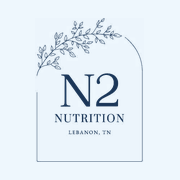
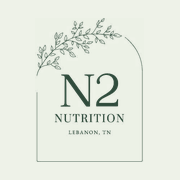
Retheme to earthy sage green palette

diff --git a/site/css/style.css b/site/css/style.css
@@ -1,12 +1,12 @@
 /* N2 Nutrition — Lebanon, TN */
 :root {
-  --navy: #1a3556;
-  --ink: #12243b;
-  --sky: #eef7fd;
-  --sky-2: #dcedf8;
-  --teal: #7db5b2;
-  --coral: #f0654f;
-  --cream: #fffaf3;
+  --navy: #2f4a3b;
+  --ink: #1d2b23;
+  --sky: #eef2e8;
+  --sky-2: #dbe4d0;
+  --teal: #8aa17f;
+  --coral: #c0673f;
+  --cream: #f8f5ec;
   --white: #fff;
   --serif: "Playfair Display", Georgia, serif;
   --sans: "Jost", system-ui, -apple-system, "Segoe UI", sans-serif;
@@ -38,7 +38,7 @@ button { font: inherit; color: inherit; cursor: pointer; }
 .eyebrow { font-size: .78rem; font-weight: 600; letter-spacing: .2em; text-transform: uppercase; color: var(--coral); margin-bottom: 18px; }
 .h2 { font-family: var(--serif); font-weight: 600; font-size: clamp(2.4rem, 5.6vw, 4.4rem); line-height: 1.05; letter-spacing: -.015em; color: var(--navy); }
 .h2 em, .hero__title em { font-style: italic; font-weight: 500; color: var(--coral); }
-.lede { font-size: 1.15rem; max-width: 560px; margin-top: 20px; color: #3a4f68; }
+.lede { font-size: 1.15rem; max-width: 560px; margin-top: 20px; color: #44564a; }
 .section__head { margin-bottom: clamp(36px, 5vw, 64px); }
 
 /* ---------- buttons (sweep-fill) ---------- */
@@ -49,7 +49,7 @@ button { font: inherit; color: inherit; cursor: pointer; }
   transition: color .35s var(--ease), transform .35s var(--ease), box-shadow .35s var(--ease), border-color .35s var(--ease); background: transparent;
 }
 .btn::before { content: ""; position: absolute; inset: 0; z-index: -1; transform: scaleX(0); transform-origin: left; transition: transform .45s var(--ease); }
-.btn:hover { transform: translateY(-2px); box-shadow: 0 10px 24px -10px rgba(18, 36, 59, .45); }
+.btn:hover { transform: translateY(-2px); box-shadow: 0 10px 24px -10px rgba(29, 43, 35, .45); }
 .btn:hover::before { transform: scaleX(1); }
 .btn--sm { padding: 12px 22px; font-size: .74rem; }
 
@@ -62,7 +62,7 @@ button { font: inherit; color: inherit; cursor: pointer; }
 .btn--navy { color: var(--navy); border-color: var(--navy); }
 .btn--navy::before { background: var(--navy); }
 .btn--navy:hover { color: #fff; }
-.btn--outline { color: var(--navy); border-color: rgba(26, 53, 86, .35); }
+.btn--outline { color: var(--navy); border-color: rgba(47, 74, 59, .35); }
 .btn--outline::before { background: var(--sky-2); }
 .btn--outline:hover { border-color: var(--navy); }
 
@@ -77,7 +77,7 @@ button { font: inherit; color: inherit; cursor: pointer; }
 .nav .btn { color: #fff; }
 .nav .btn::before { background: #fff; }
 .nav .btn:hover { color: var(--navy); }
-.nav.is-solid { background: rgba(238, 247, 253, .94); backdrop-filter: blur(12px); -webkit-backdrop-filter: blur(12px); color: var(--navy); box-shadow: 0 1px 0 rgba(26, 53, 86, .1); }
+.nav.is-solid { background: rgba(238, 242, 232, .94); backdrop-filter: blur(12px); -webkit-backdrop-filter: blur(12px); color: var(--navy); box-shadow: 0 1px 0 rgba(47, 74, 59, .1); }
 .nav.is-solid .nav__brand { opacity: 1; pointer-events: auto; }
 .nav.is-solid .btn { color: var(--navy); }
 .nav.is-solid .btn::before { background: var(--navy); }
@@ -99,14 +99,14 @@ button { font: inherit; color: inherit; cursor: pointer; }
 .hero__split--1 { left: 33.333%; }
 .hero__split--2 { left: 66.666%; }
 .hero__shade { position: absolute; inset: 0; z-index: -1; background:
-  radial-gradient(ellipse at 50% 52%, rgba(14, 30, 52, .66) 0%, rgba(14, 30, 52, .3) 55%, transparent 82%),
-  linear-gradient(180deg, rgba(14, 30, 52, .62) 0%, rgba(14, 30, 52, .22) 30%, rgba(14, 30, 52, .3) 62%, rgba(14, 30, 52, .82) 100%); }
+  radial-gradient(ellipse at 50% 52%, rgba(22, 36, 28, .66) 0%, rgba(22, 36, 28, .3) 55%, transparent 82%),
+  linear-gradient(180deg, rgba(22, 36, 28, .62) 0%, rgba(22, 36, 28, .22) 30%, rgba(22, 36, 28, .3) 62%, rgba(22, 36, 28, .82) 100%); }
 
 .hero__inner { width: min(860px, 100% - var(--gutter) * 2); padding: calc(var(--nav-h) + 24px) 0 96px; display: flex; flex-direction: column; align-items: center; }
 .hero__badge { width: clamp(184px, 19vw, 262px); aspect-ratio: 1; border-radius: 50%; background: var(--sky); display: grid; place-items: center; box-shadow: 0 24px 60px -18px rgba(0, 0, 0, .55), 0 0 0 7px rgba(255, 255, 255, .22); margin-bottom: clamp(24px, 3.6vw, 40px); animation: pop 1s var(--ease) both; }
 .hero__badge img { width: 58%; height: auto; }
 .hero__title { font-family: var(--serif); font-weight: 600; font-size: clamp(2.35rem, 6.4vw, 5.2rem); line-height: 1.02; letter-spacing: -.02em; text-wrap: balance; text-shadow: 0 4px 30px rgba(0, 0, 0, .35); animation: rise .9s .15s var(--ease) both; }
-.hero__title em { color: #ffb9a9; }
+.hero__title em { color: #f0c1a0; }
 .hero__sub { margin-top: 22px; max-width: 560px; font-size: clamp(1.02rem, 1.7vw, 1.2rem); color: rgba(255, 255, 255, .92); text-shadow: 0 2px 16px rgba(0, 0, 0, .4); animation: rise .9s .28s var(--ease) both; }
 .hero__cta { display: flex; flex-wrap: wrap; justify-content: center; gap: 14px; margin-top: 32px; animation: rise .9s .4s var(--ease) both; }
 .hero__status { margin-top: 28px; display: inline-flex; align-items: center; gap: 10px; font-size: .78rem; font-weight: 600; letter-spacing: .14em; text-transform: uppercase; color: rgba(255, 255, 255, .9); animation: rise .9s .5s var(--ease) both; }
@@ -133,19 +133,19 @@ button { font: inherit; color: inherit; cursor: pointer; }
 .about__leaf--r { right: auto; left: -60px; top: auto; bottom: 20px; transform: scaleX(-1); }
 .about__grid { display: grid; grid-template-columns: 1.1fr 1fr; gap: clamp(36px, 6vw, 88px); align-items: center; position: relative; }
 .about__photos { position: relative; padding-bottom: 12%; }
-.about__main { width: 100%; height: auto; border-radius: 26px; box-shadow: 0 30px 60px -30px rgba(26, 53, 86, .45); }
-.about__team { position: absolute; right: -4%; bottom: 0; width: 38%; height: auto; aspect-ratio: 1; object-fit: cover; border-radius: 22px; border: 6px solid var(--sky); box-shadow: 0 24px 50px -22px rgba(26, 53, 86, .5); }
-.about__copy p { margin-bottom: 18px; color: #34485f; }
+.about__main { width: 100%; height: auto; border-radius: 26px; box-shadow: 0 30px 60px -30px rgba(47, 74, 59, .45); }
+.about__team { position: absolute; right: -4%; bottom: 0; width: 38%; height: auto; aspect-ratio: 1; object-fit: cover; border-radius: 22px; border: 6px solid var(--sky); box-shadow: 0 24px 50px -22px rgba(47, 74, 59, .5); }
+.about__copy p { margin-bottom: 18px; color: #3f5044; }
 .about__copy .h2 { margin-bottom: 26px; }
 .stats { display: grid; grid-template-columns: repeat(3, 1fr); gap: 14px; margin: 34px 0 36px; }
 .stats li { background: #fff; border-radius: 18px; padding: 18px 16px; border-left: 3px solid var(--coral); }
 .stats strong { display: block; font-family: var(--serif); font-size: 2rem; line-height: 1.1; color: var(--navy); }
-.stats span { font-size: .84rem; line-height: 1.35; display: block; margin-top: 4px; color: #4a5e75; }
+.stats span { font-size: .84rem; line-height: 1.35; display: block; margin-top: 4px; color: #556757; }
 
 /* ---------- menu ---------- */
 .menu { background: #fff; }
 .tabs { display: flex; flex-wrap: wrap; gap: 10px; margin-bottom: clamp(28px, 4vw, 48px); }
-.tab { padding: 13px 24px; border: 1.5px solid rgba(26, 53, 86, .25); border-radius: 999px; background: transparent; font-size: .8rem; font-weight: 600; letter-spacing: .14em; text-transform: uppercase; color: var(--navy); transition: background .3s, color .3s, border-color .3s, transform .3s var(--ease); }
+.tab { padding: 13px 24px; border: 1.5px solid rgba(47, 74, 59, .25); border-radius: 999px; background: transparent; font-size: .8rem; font-weight: 600; letter-spacing: .14em; text-transform: uppercase; color: var(--navy); transition: background .3s, color .3s, border-color .3s, transform .3s var(--ease); }
 .tab:hover { border-color: var(--navy); transform: translateY(-2px); }
 .tab.is-active { background: var(--navy); border-color: var(--navy); color: #fff; }
 
@@ -153,21 +153,21 @@ button { font: inherit; color: inherit; cursor: pointer; }
 .panel.is-active { display: grid; animation: rise .6s var(--ease) both; }
 .panel__fig { position: sticky; top: calc(var(--nav-h) + 24px); border-radius: 26px; overflow: hidden; aspect-ratio: 4 / 5; background: var(--sky-2); }
 .panel__fig img { width: 100%; height: 100%; object-fit: cover; }
-.panel__fig figcaption { position: absolute; left: 14px; bottom: 14px; background: rgba(238, 247, 253, .94); color: var(--navy); font-family: var(--serif); font-style: italic; padding: 6px 16px; border-radius: 999px; font-size: 1rem; }
-.panel__note { margin-top: 28px; font-size: .95rem; color: #4a5e75; }
+.panel__fig figcaption { position: absolute; left: 14px; bottom: 14px; background: rgba(238, 242, 232, .94); color: var(--navy); font-family: var(--serif); font-style: italic; padding: 6px 16px; border-radius: 999px; font-size: 1rem; }
+.panel__note { margin-top: 28px; font-size: .95rem; color: #556757; }
 .panel__note:first-child { margin: 0 0 28px; }
 .panel__note a { color: var(--coral); font-weight: 500; }
 
 .cols { display: grid; grid-template-columns: repeat(3, 1fr); gap: clamp(22px, 3vw, 44px); }
 .cols--2 { grid-template-columns: repeat(2, 1fr); }
 .group h3 { font-family: var(--serif); font-size: 1.7rem; font-weight: 600; color: var(--navy); padding-bottom: 12px; margin-bottom: 8px; border-bottom: 2px solid var(--coral); display: inline-block; }
-.items li { padding: 14px 0; border-bottom: 1px solid rgba(26, 53, 86, .12); }
+.items li { padding: 14px 0; border-bottom: 1px solid rgba(47, 74, 59, .12); }
 .items b { display: block; font-family: var(--serif); font-size: 1.18rem; font-weight: 600; color: var(--navy); line-height: 1.25; }
-.items span { display: block; margin-top: 2px; font-size: .88rem; letter-spacing: .02em; color: #55697f; line-height: 1.45; }
+.items span { display: block; margin-top: 2px; font-size: .88rem; letter-spacing: .02em; color: #5e7062; line-height: 1.45; }
 .chips { display: flex; flex-wrap: wrap; gap: 8px; margin-bottom: 28px; }
 .chips li { background: var(--sky); color: var(--navy); font-size: .8rem; font-weight: 500; padding: 7px 14px; border-radius: 999px; }
 .flavors { display: grid; grid-template-columns: repeat(auto-fill, minmax(200px, 1fr)); gap: 0 clamp(18px, 3vw, 40px); }
-.flavors li { font-family: var(--serif); font-size: 1.2rem; font-weight: 600; color: var(--navy); padding: 13px 0; border-bottom: 1px solid rgba(26, 53, 86, .12); }
+.flavors li { font-family: var(--serif); font-size: 1.2rem; font-weight: 600; color: var(--navy); padding: 13px 0; border-bottom: 1px solid rgba(47, 74, 59, .12); }
 
 /* ---------- gallery ---------- */
 .gallery { background: var(--cream); }
@@ -182,8 +182,8 @@ button { font: inherit; color: inherit; cursor: pointer; }
 /* ---------- reviews ---------- */
 .reviews { background: var(--navy); color: #fff; }
 .reviews .h2 { color: #fff; }
-.reviews .h2 em { color: #ffb9a9; }
-.reviews .eyebrow { color: #ffb9a9; }
+.reviews .h2 em { color: #f0c1a0; }
+.reviews .eyebrow { color: #f0c1a0; }
 .rating { margin-top: 18px; font-size: .95rem; color: rgba(255, 255, 255, .8); }
 .stars { color: #ffc65c; letter-spacing: .12em; }
 .carousel { position: relative; }
@@ -207,26 +207,26 @@ button { font: inherit; color: inherit; cursor: pointer; }
 .visit__info address a { text-decoration: none; }
 .visit__info address a:hover { color: var(--coral); }
 .hours { max-width: 420px; margin-bottom: 26px; }
-.hours li { display: flex; justify-content: space-between; gap: 16px; padding: 11px 0; border-bottom: 1px solid rgba(26, 53, 86, .16); }
+.hours li { display: flex; justify-content: space-between; gap: 16px; padding: 11px 0; border-bottom: 1px solid rgba(47, 74, 59, .16); }
 .hours b { font-weight: 600; color: var(--navy); }
 .visit__lines { margin-bottom: 30px; font-size: 1.1rem; }
 .visit__lines a { text-decoration: none; font-weight: 500; }
 .visit__lines a:hover { color: var(--coral); }
 .visit__cta { display: flex; flex-wrap: wrap; gap: 12px; }
-.visit__note { margin-top: 20px; font-size: .9rem; color: #4a5e75; }
-.visit__map { border-radius: 26px; overflow: hidden; min-height: 420px; box-shadow: 0 30px 60px -30px rgba(26, 53, 86, .45); background: var(--sky-2); }
+.visit__note { margin-top: 20px; font-size: .9rem; color: #556757; }
+.visit__map { border-radius: 26px; overflow: hidden; min-height: 420px; box-shadow: 0 30px 60px -30px rgba(47, 74, 59, .45); background: var(--sky-2); }
 .visit__map iframe { width: 100%; height: 100%; min-height: 420px; border: 0; filter: saturate(.85); }
 
 /* ---------- faq ---------- */
 .faq { background: #fff; }
 .faq__grid { display: grid; grid-template-columns: .8fr 1.2fr; gap: clamp(28px, 6vw, 88px); align-items: start; }
 .faq .section__head { margin: 0; }
-details { border-bottom: 1px solid rgba(26, 53, 86, .16); }
+details { border-bottom: 1px solid rgba(47, 74, 59, .16); }
 summary { list-style: none; cursor: pointer; padding: 22px 44px 22px 0; font-family: var(--serif); font-size: 1.25rem; font-weight: 600; color: var(--navy); position: relative; }
 summary::-webkit-details-marker { display: none; }
 summary::after { content: "+"; position: absolute; right: 4px; top: 50%; transform: translateY(-50%); font-family: var(--sans); font-weight: 400; font-size: 1.8rem; color: var(--coral); transition: transform .35s var(--ease); }
 details[open] summary::after { transform: translateY(-50%) rotate(45deg); }
-details p { padding: 0 0 24px; max-width: 600px; color: #3a4f68; }
+details p { padding: 0 0 24px; max-width: 600px; color: #44564a; }
 details p a { color: var(--coral); }
 
 /* ---------- hiring ---------- */
@@ -254,7 +254,7 @@ details p a { color: var(--coral); }
 
 /* ---------- lightbox ---------- */
 .lightbox { border: 0; padding: 0; background: transparent; max-width: 94vw; max-height: 94vh; overflow: visible; }
-.lightbox::backdrop { background: rgba(10, 22, 38, .88); backdrop-filter: blur(4px); }
+.lightbox::backdrop { background: rgba(18, 28, 22, .88); backdrop-filter: blur(4px); }
 .lightbox img { max-width: 94vw; max-height: 88vh; border-radius: 16px; margin: auto; filter: var(--photo-filter); }
 .lightbox__close { position: absolute; top: -48px; right: 0; width: 44px; height: 44px; border-radius: 50%; border: 0; background: #fff; color: var(--navy); font-size: 1.6rem; line-height: 1; }
 
@@ -302,8 +302,8 @@ details p a { color: var(--coral); }
   .visit__map, .visit__map iframe { min-height: 340px; }
 
   body { padding-bottom: 64px; }
-  .callbar { display: flex; flex-direction: column; align-items: center; justify-content: center; position: fixed; z-index: 90; left: 0; right: 0; bottom: 0; height: 64px; padding-bottom: env(safe-area-inset-bottom); background: var(--navy); color: #fff; text-decoration: none; font-weight: 600; font-size: 1rem; line-height: 1.2; box-shadow: 0 -6px 20px rgba(10, 22, 38, .25); }
-  .callbar span { font-size: .66rem; letter-spacing: .2em; text-transform: uppercase; color: #ffb9a9; }
+  .callbar { display: flex; flex-direction: column; align-items: center; justify-content: center; position: fixed; z-index: 90; left: 0; right: 0; bottom: 0; height: 64px; padding-bottom: env(safe-area-inset-bottom); background: var(--navy); color: #fff; text-decoration: none; font-weight: 600; font-size: 1rem; line-height: 1.2; box-shadow: 0 -6px 20px rgba(18, 28, 22, .25); }
+  .callbar span { font-size: .66rem; letter-spacing: .2em; text-transform: uppercase; color: #f0c1a0; }
 }
 
 @media (max-width: 560px) {

diff --git a/site/index.html b/site/index.html
@@ -5,7 +5,7 @@
   <meta name="viewport" content="width=device-width, initial-scale=1, viewport-fit=cover">
   <title>N2 Nutrition | Loaded Teas &amp; Protein Shakes in Lebanon, TN</title>
   <meta name="description" content="N2 Nutrition is a locally owned smoothie &amp; juice bar at 1701 W Main St in Lebanon, TN. Loaded teas, beauty teas, kid's teas and protein meal replacement shakes. Healthy drinks for a healthier life.">
-  <meta name="theme-color" content="#1a3556">
+  <meta name="theme-color" content="#2f4a3b">
   <link rel="canonical" href="https://n2nutritiontn.com/">
   <link rel="icon" type="image/png" href="assets/img/favicon-64.png">
   <link rel="apple-touch-icon" href="assets/img/apple-touch-icon.png">
@@ -54,7 +54,7 @@
 
   <!-- ============ HEADER ============ -->
   <header class="nav" id="nav">
-    <a class="nav__brand" href="#top" aria-label="N2 Nutrition home"><img src="assets/img/logo-navy.png" alt="N2 Nutrition" width="302" height="397"></a>
+    <a class="nav__brand" href="#top" aria-label="N2 Nutrition home"><img src="assets/img/logo-navy.png" alt="N2 Nutrition" width="314" height="409"></a>
     <nav class="nav__links" id="navLinks" aria-label="Primary">
       <a href="#menu">Menu</a>
       <a href="#about">Our Story</a>
@@ -79,7 +79,7 @@
 
     <div class="hero__inner">
       <div class="hero__badge">
-        <img src="assets/img/logo-navy.png" alt="N2 Nutrition — Lebanon, TN" width="302" height="397">
+        <img src="assets/img/logo-navy.png" alt="N2 Nutrition — Lebanon, TN" width="314" height="409">
       </div>
       <h1 class="hero__title">Healthy drinks for a <em>healthier</em> life.</h1>
       <p class="hero__sub">Loaded teas &amp; meal replacement shakes &mdash; locally owned and operated in Lebanon, Tennessee.</p>
@@ -353,7 +353,7 @@
   <!-- ============ FOOTER ============ -->
   <footer class="footer">
     <div class="wrap footer__inner">
-      <a class="footer__logo" href="#top" aria-label="Back to top"><img src="assets/img/logo-white.png" alt="N2 Nutrition — Lebanon, TN" width="302" height="397"></a>
+      <a class="footer__logo" href="#top" aria-label="Back to top"><img src="assets/img/logo-white.png" alt="N2 Nutrition — Lebanon, TN" width="314" height="409"></a>
       <div class="footer__col">
         <h3>Visit</h3>
         <p>1701 W Main St, Suite 111<br>Lebanon, TN 37087</p>
